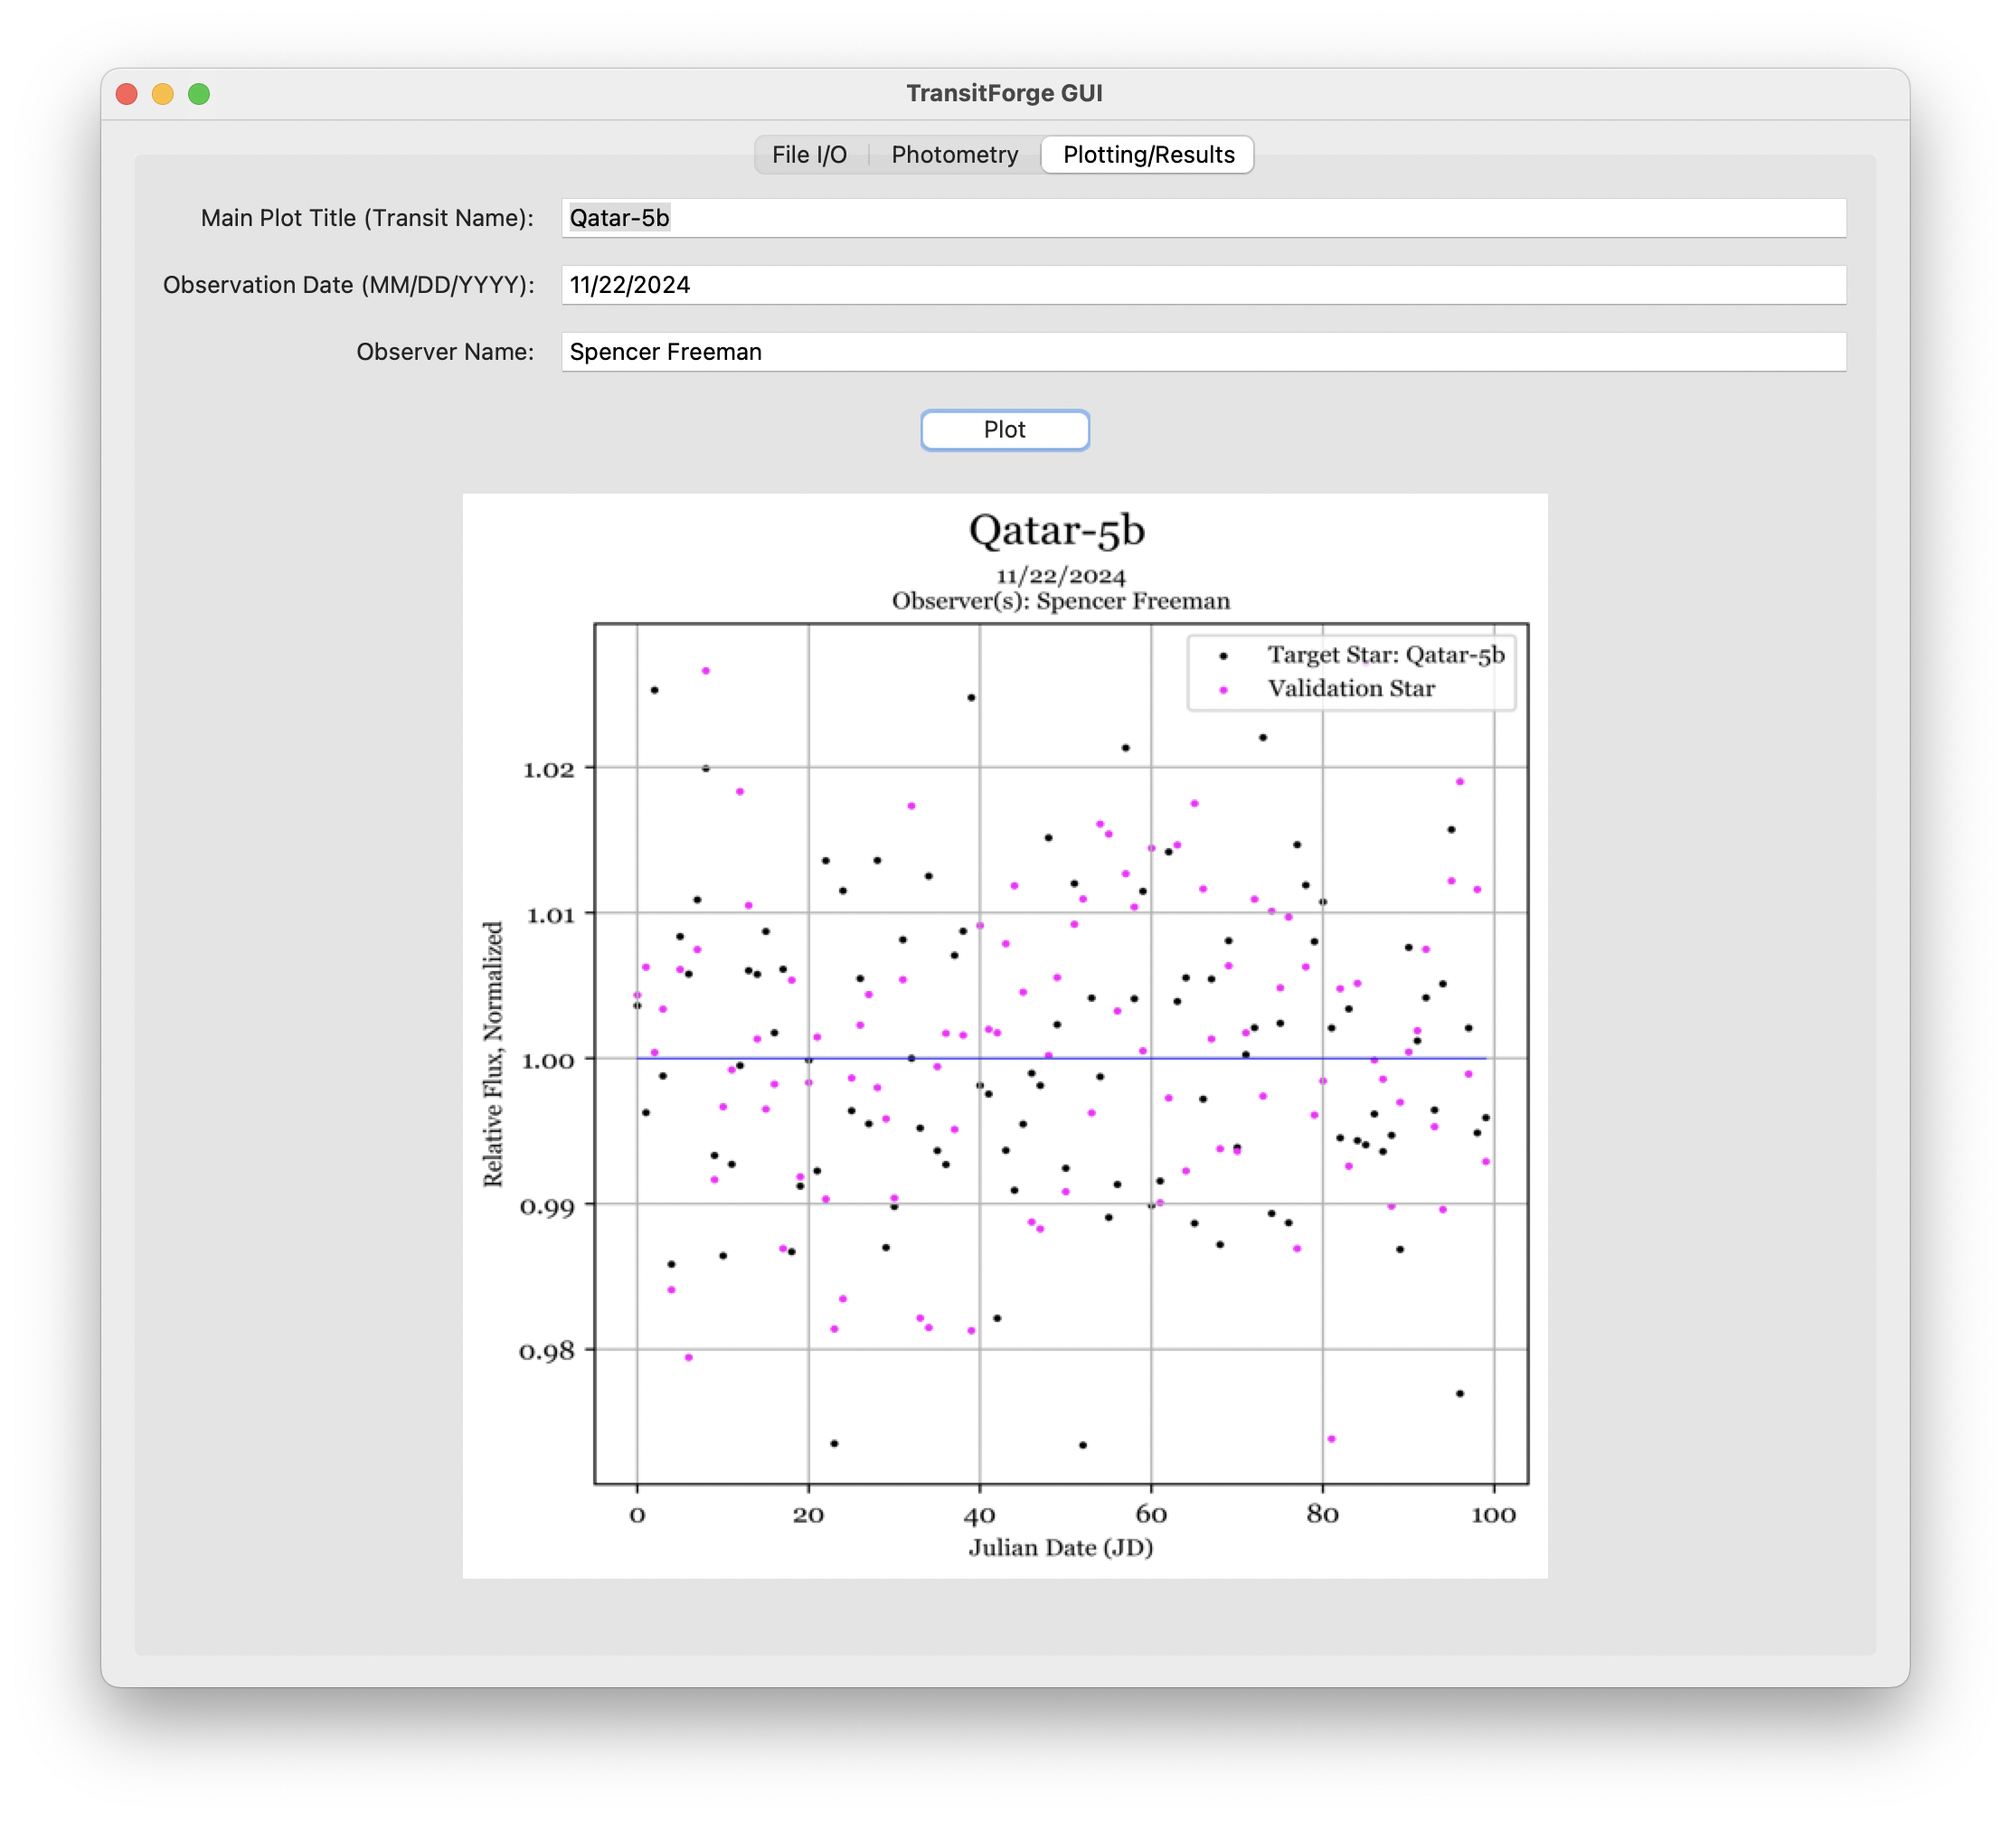
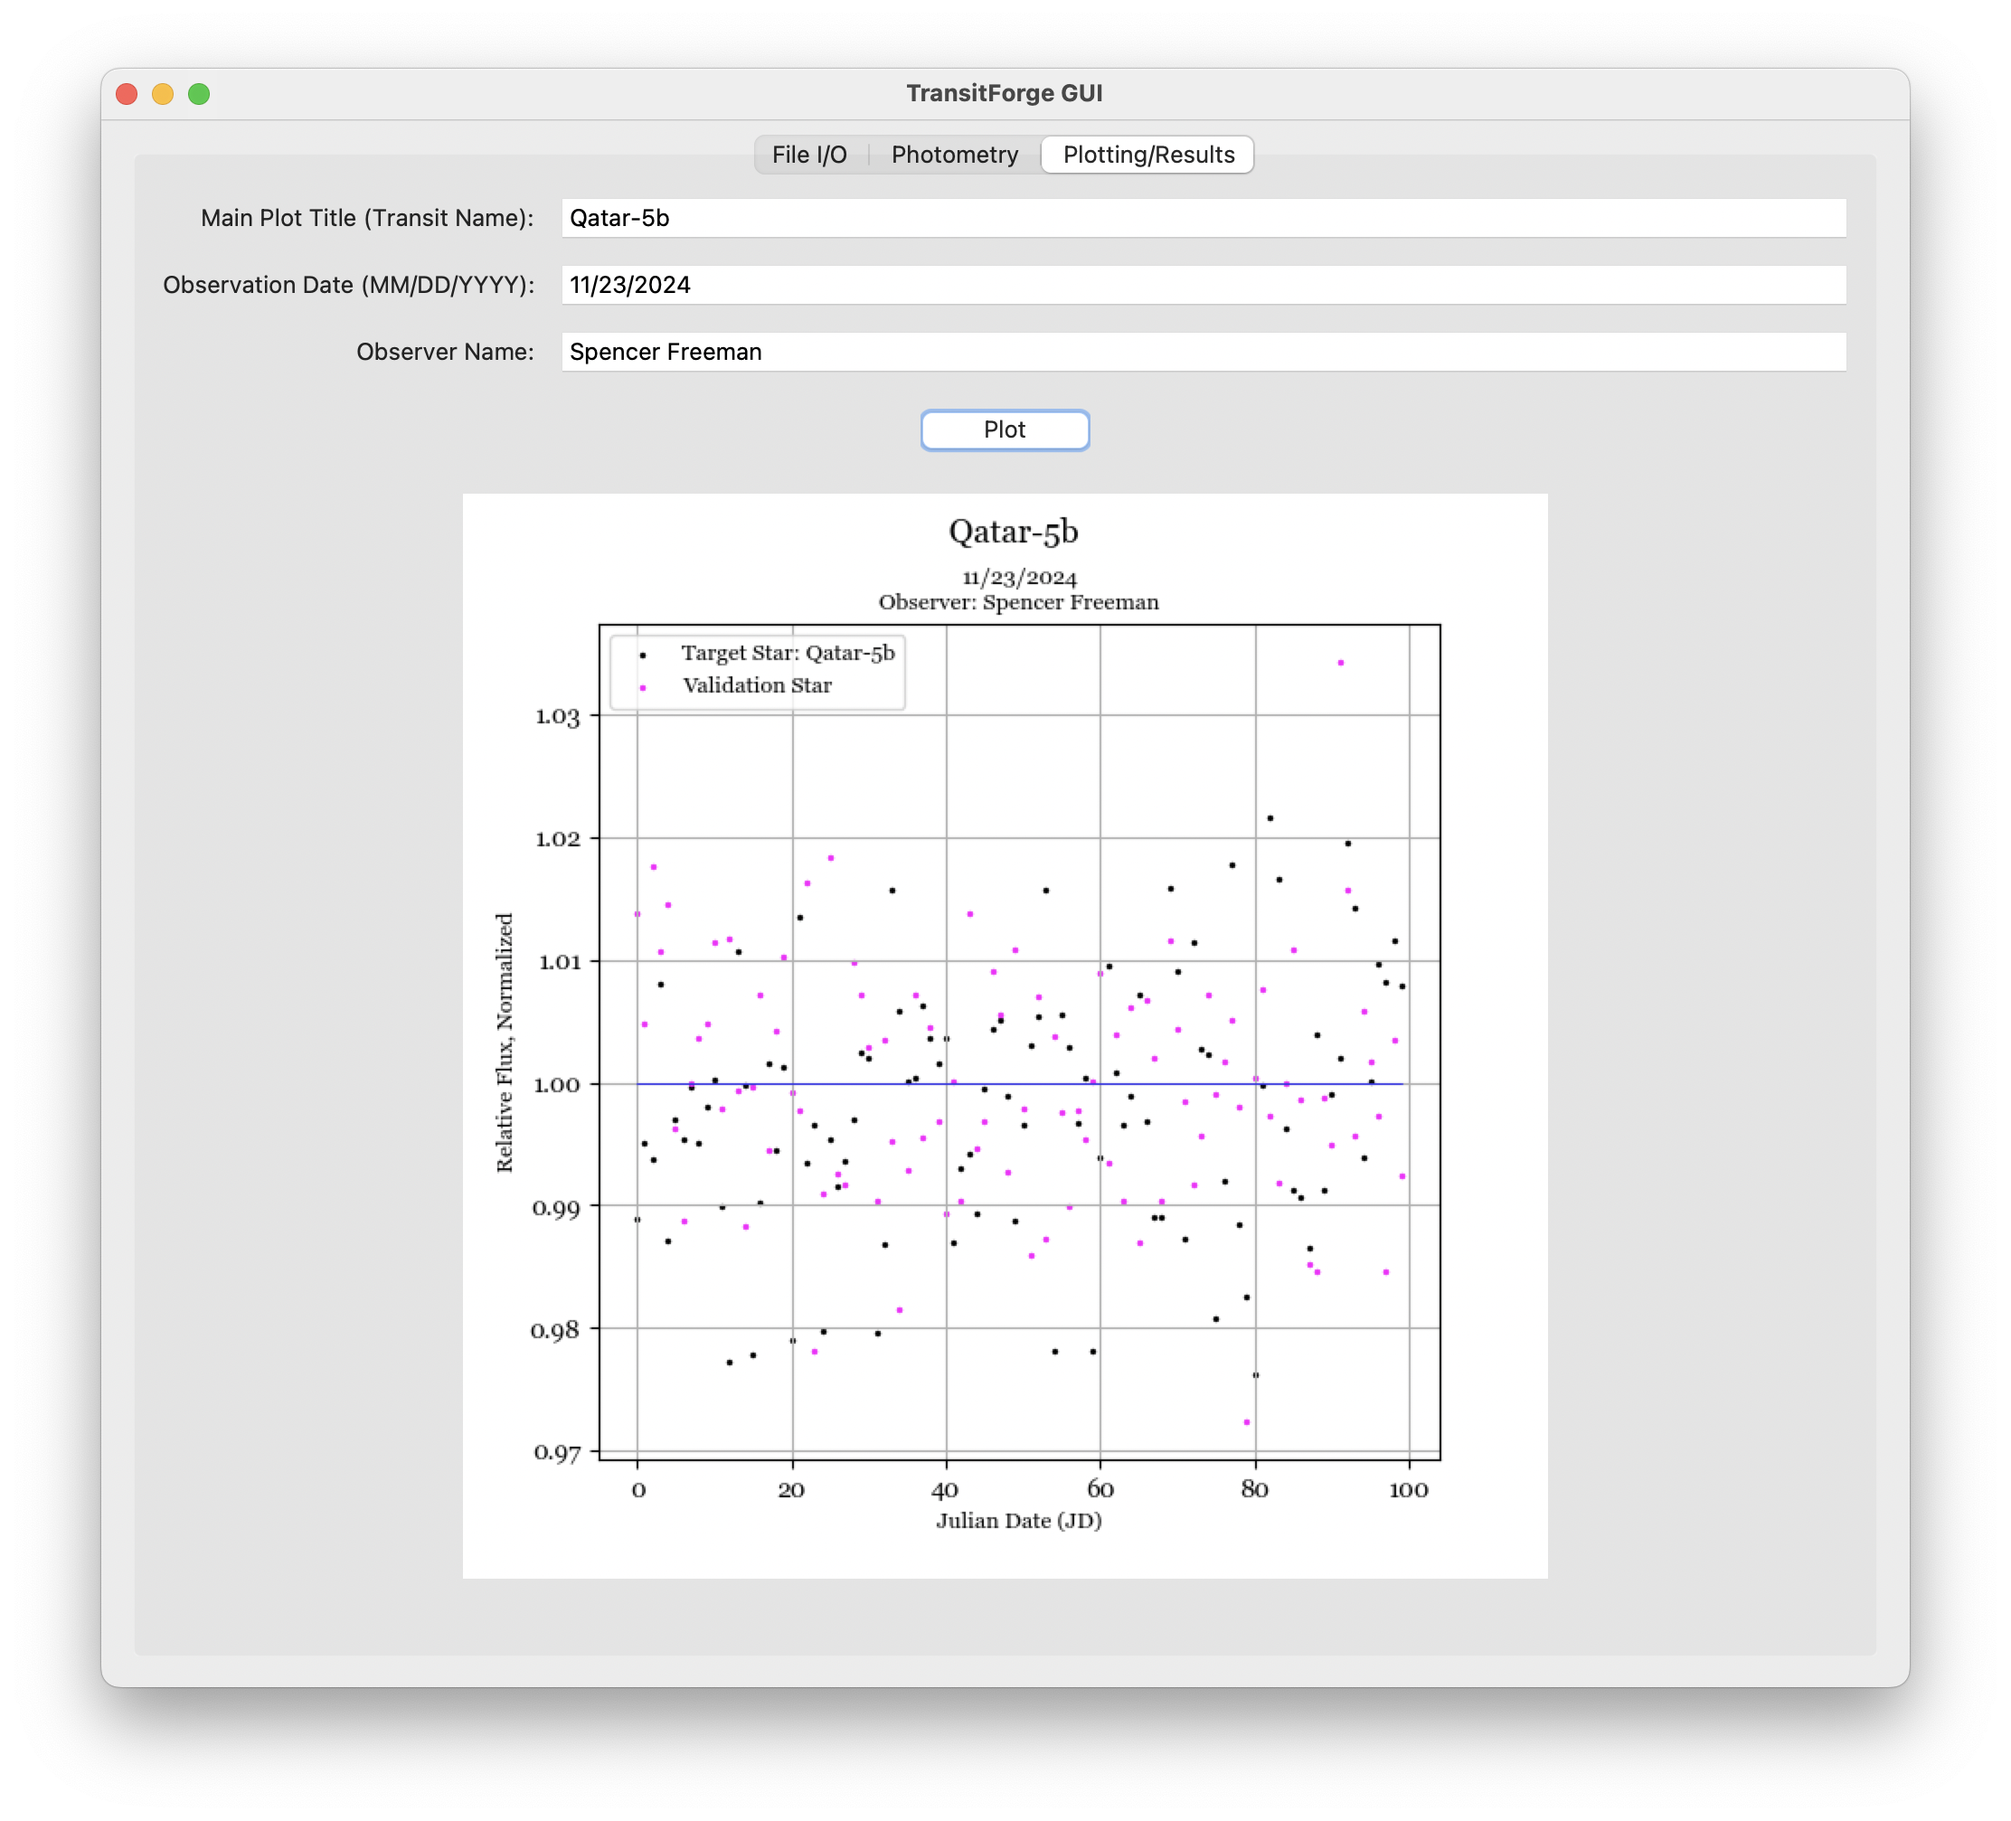
made slight adjustments to resolution of plot area, still need download png capability.

diff --git a/gui/plot_gui.py b/gui/plot_gui.py
@@ -7,11 +7,9 @@ class Plot:
     plt.rcParams['axes.labelsize'] = 9
     plt.rcParams['axes.titlesize'] = 9
     plt.rcParams['legend.fontsize'] = 9
-    suptitle_size = 11
+    suptitle_size = 13
     plt.rcParams['font.family'] = 'Georgia'
     plt.rcParams['text.usetex'] = False
-    
-    suptitle_size = 16
     
     def __init__(self, input_dict: dict, timeline: list, target_flux_rel_norm: list, validation_flux_norm: list):
         self.input_dict = input_dict
@@ -27,8 +25,8 @@ class Plot:
         observer = self.extract_input("Observer Name")
         date = self.extract_input("Observation Date (MM/DD/YYYY)")
         
-        ax.scatter(self.timeline, self.target_flux_rel_norm, color='black', marker='o', s=3, label=f"Target Star: {title}")
-        ax.scatter(self.timeline, self.validation_flux_norm, color='magenta', marker='o', s=3, label="Validation Star")
+        ax.scatter(self.timeline, self.target_flux_rel_norm, color='black', marker='o', s=2, label=f"Target Star: {title}")
+        ax.scatter(self.timeline, self.validation_flux_norm, color='magenta', marker='o', s=2, label="Validation Star")
         ax.plot([self.timeline[0], self.timeline[-1]], [1.0, 1.0], 'b-', linewidth=0.5)
 
 
@@ -36,7 +34,7 @@ class Plot:
         if title and observer and date:
             fig.suptitle(f"  {title}", fontsize=Plot.suptitle_size)
             
-        ax.set_title(f"{date}\nObserver(s): {observer}")
+        ax.set_title(f"{date}\nObservers: {observer}") if ',' in observer else ax.set_title(f"{date}\nObserver: {observer}")
         ax.set_xlabel("Julian Date (JD)")
         ax.set_ylabel("Relative Flux, Normalized")
      
@@ -58,7 +56,7 @@ class Plot:
 
     def save_fig_image(self, fig: plt.Figure) -> None:
         buffer = io.BytesIO()
-        fig.savefig(buffer, format='png', bbox_inches='tight', dpi=700)
+        fig.savefig(buffer, format='png', dpi=100)
         buffer.seek(0)
         image = Image.open(buffer)
         return image

diff --git a/gui/gui.py b/gui/gui.py
@@ -228,7 +228,7 @@ class AstroPipelineGUI(ttk.Frame):
 
         plotter = Plot(self.entries, timeline, target_flux, comp_flux)
         fig = plotter.generate_fig()
-        pil_image = plotter.save_fig_image(fig).resize((600, 600))
+        pil_image = plotter.save_fig_image(fig)
         self.tk_image = ImageTk.PhotoImage(pil_image)
 
         # Create image frame only once
